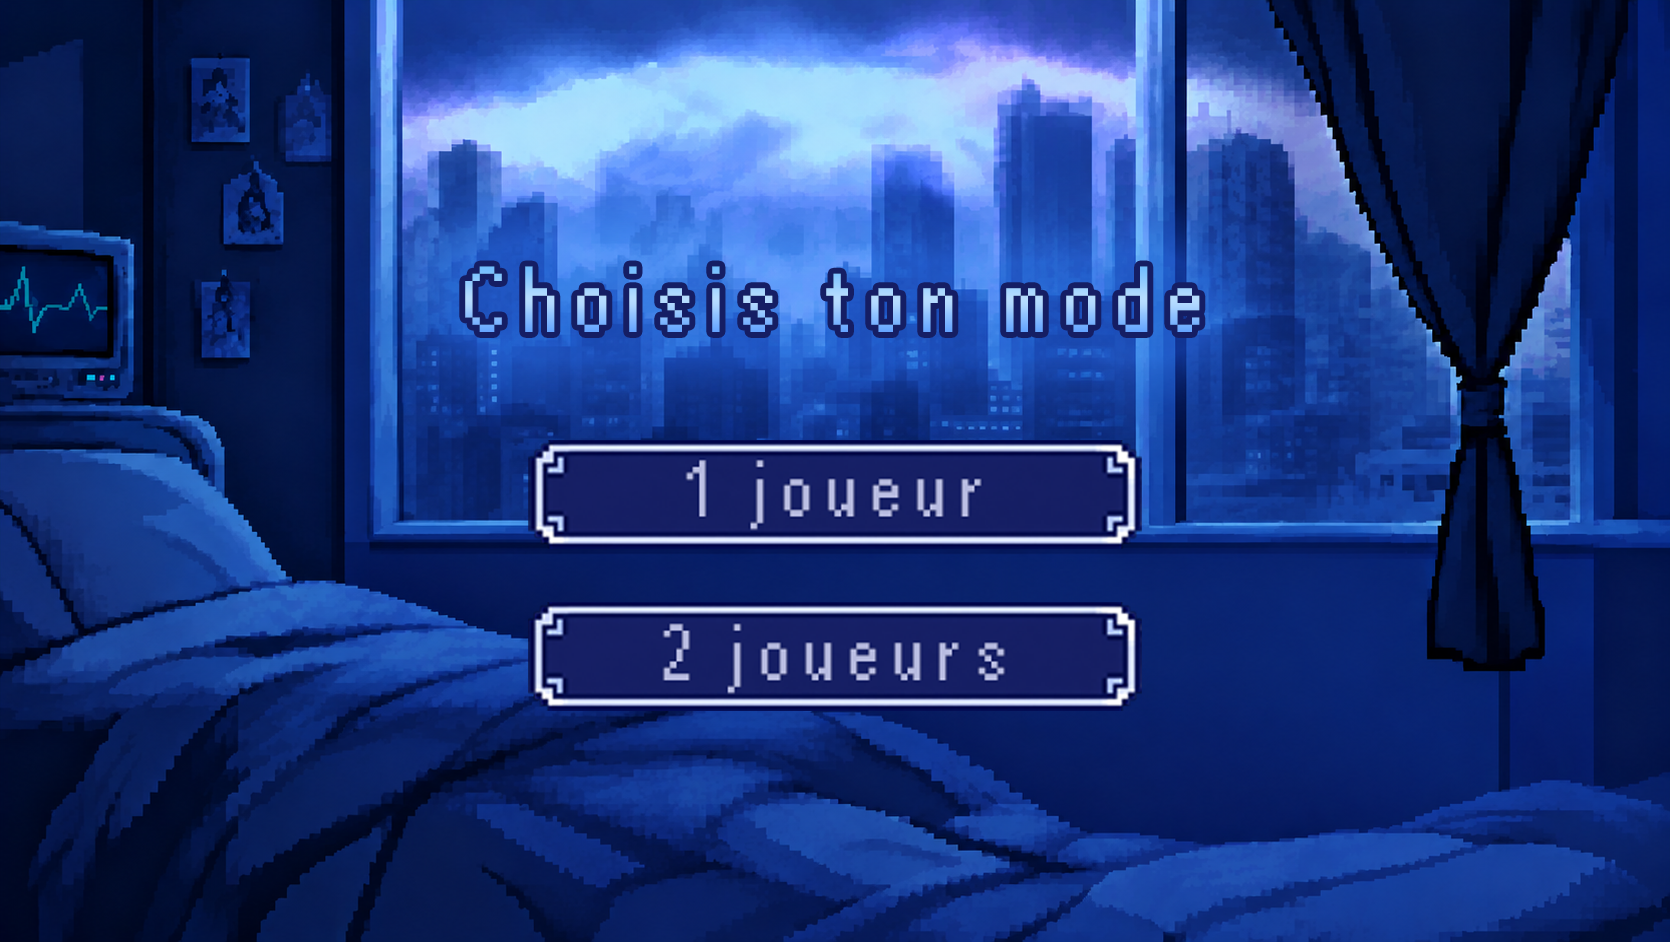
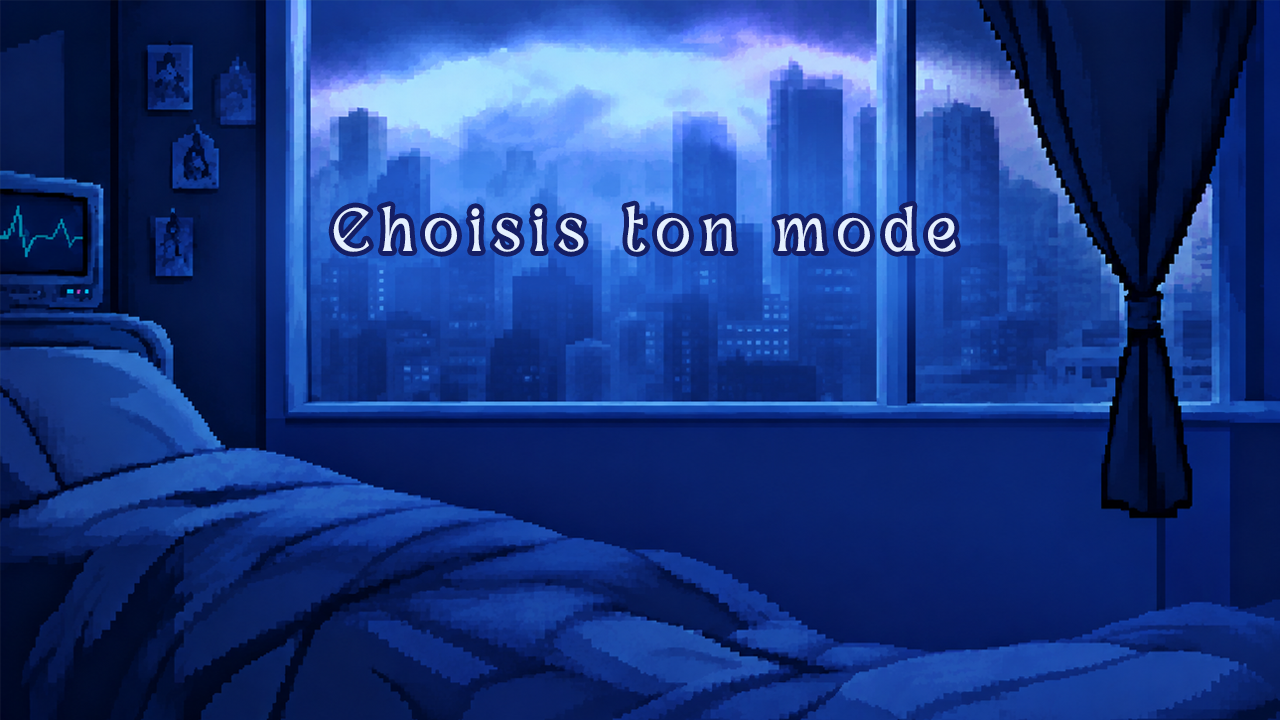
modifs mineures

diff --git a/games/2026/the_longest_night/index.html b/games/2026/the_longest_night/index.html
@@ -1,13 +1,17 @@
-<!DOCTYPE html>
-<html>
-  <head>
-    <title>The Longest Night</title>
-    <meta charset="UTF-8" />
-    <script src="https://cdn.jsdelivr.net/npm/phaser@3.60.0/dist/phaser-arcade-physics.min.js"></script>
-  </head>
+<!doctype html>
+<html lang="fr">
+<head>
+  <meta charset="utf-8">
+  <meta name="viewport" content="width=device-width, initial-scale=1">
+  <title>The Longest Night</title>
+ <style>
+  html, body { height: 100vh; background: #101018; display: grid; place-items: center; overflow: hidden;}
+</style>
 
-  <body>
-    <script src="index.js" type="module"></script>
-    <div id="game-container"></div>
-  </body>
+</head>
+<body>
+  <div id="game-container"></div>
+  <script src="https://cdn.jsdelivr.net/npm/phaser@3.60.0/dist/phaser.min.js"></script>
+  <script type="module" src="./index.js"></script>
+</body>
 </html>

diff --git a/games/2026/the_longest_night/index.js b/games/2026/the_longest_night/index.js
@@ -1,9 +1,10 @@
 // chargement des librairies
-import niveau1 from "./js/Niveau1.js";
+import niveau1 from "./js/niveau1.js";
 import niveau2 from "./js/niveau2.js";
 import Ecran_score from "./js/Ecran_score.js";
 import Game_over from "./js/Game_over.js";
 import Menu from "./js/menu.js";
+
 
 // configuration générale du jeu
 var config = {
@@ -27,7 +28,7 @@ var config = {
       gravity: {
         y: 0 //on désactive la gravité par ce qu'on a un jeu en vue de desssu. De ce fait, il sera nécésssaire de se deplacer en haut, en bas a gauche et a droite.
       },
-      debug: true // permet de voir les hitbox et les vecteurs d'acceleration quand mis à true
+      debug: false // permet de voir les hitbox et les vecteurs d'acceleration quand mis à true
     }
   },
   scene: [Menu, niveau1, niveau2, Ecran_score, Game_over],
